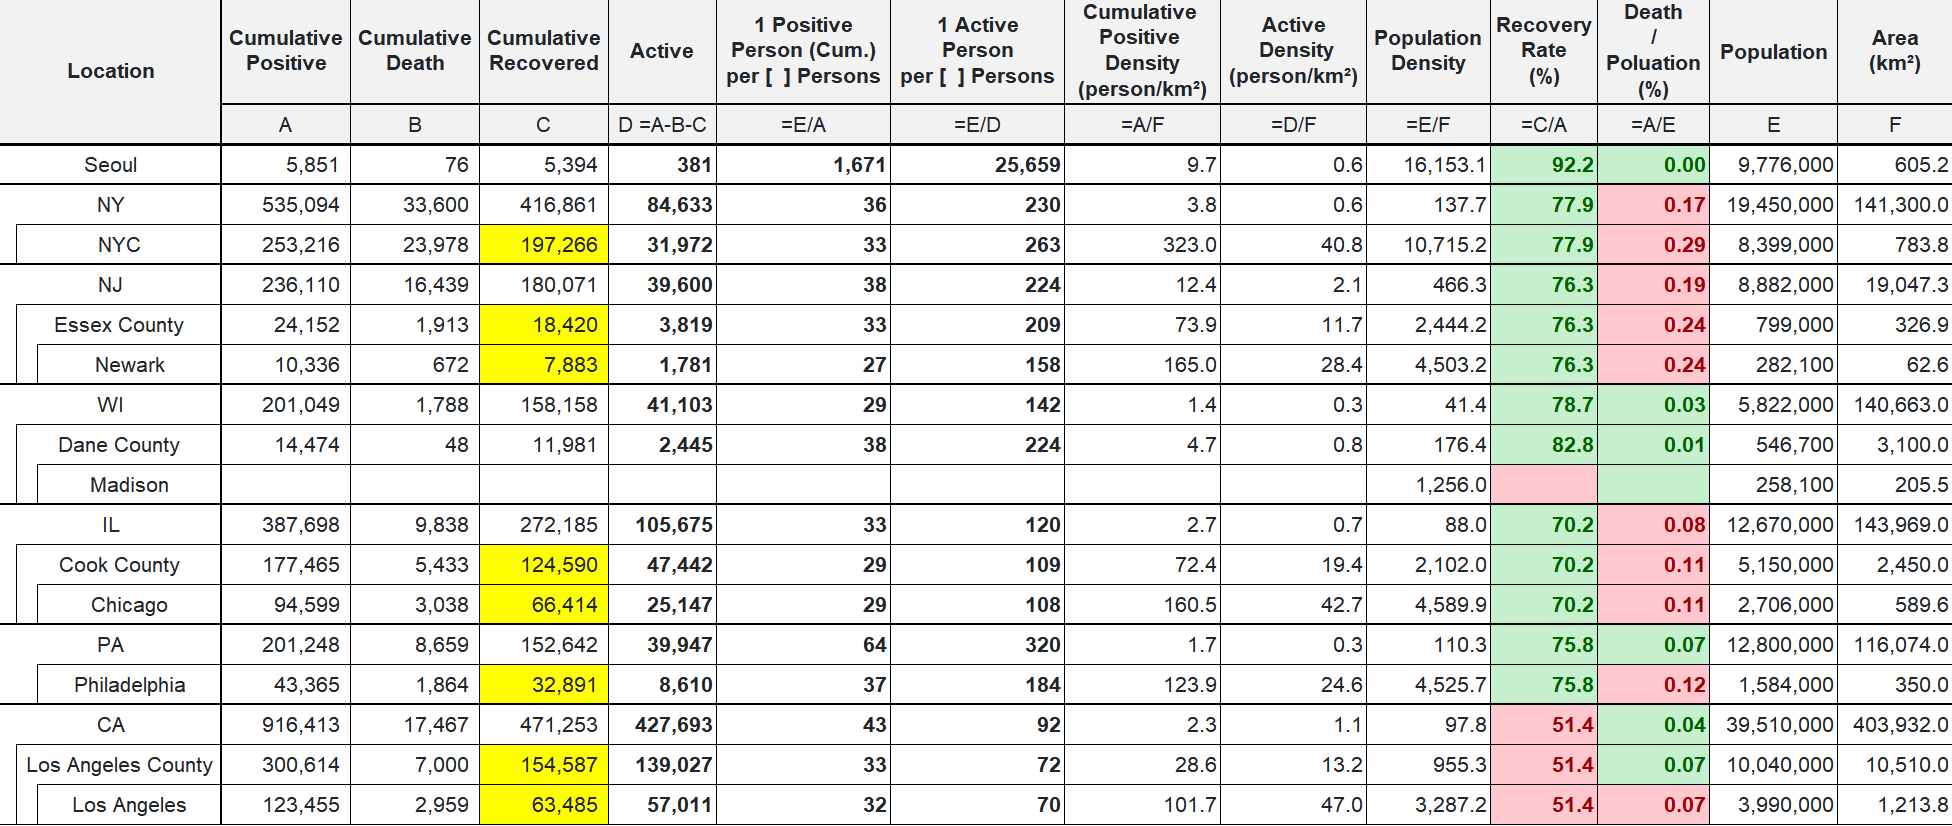
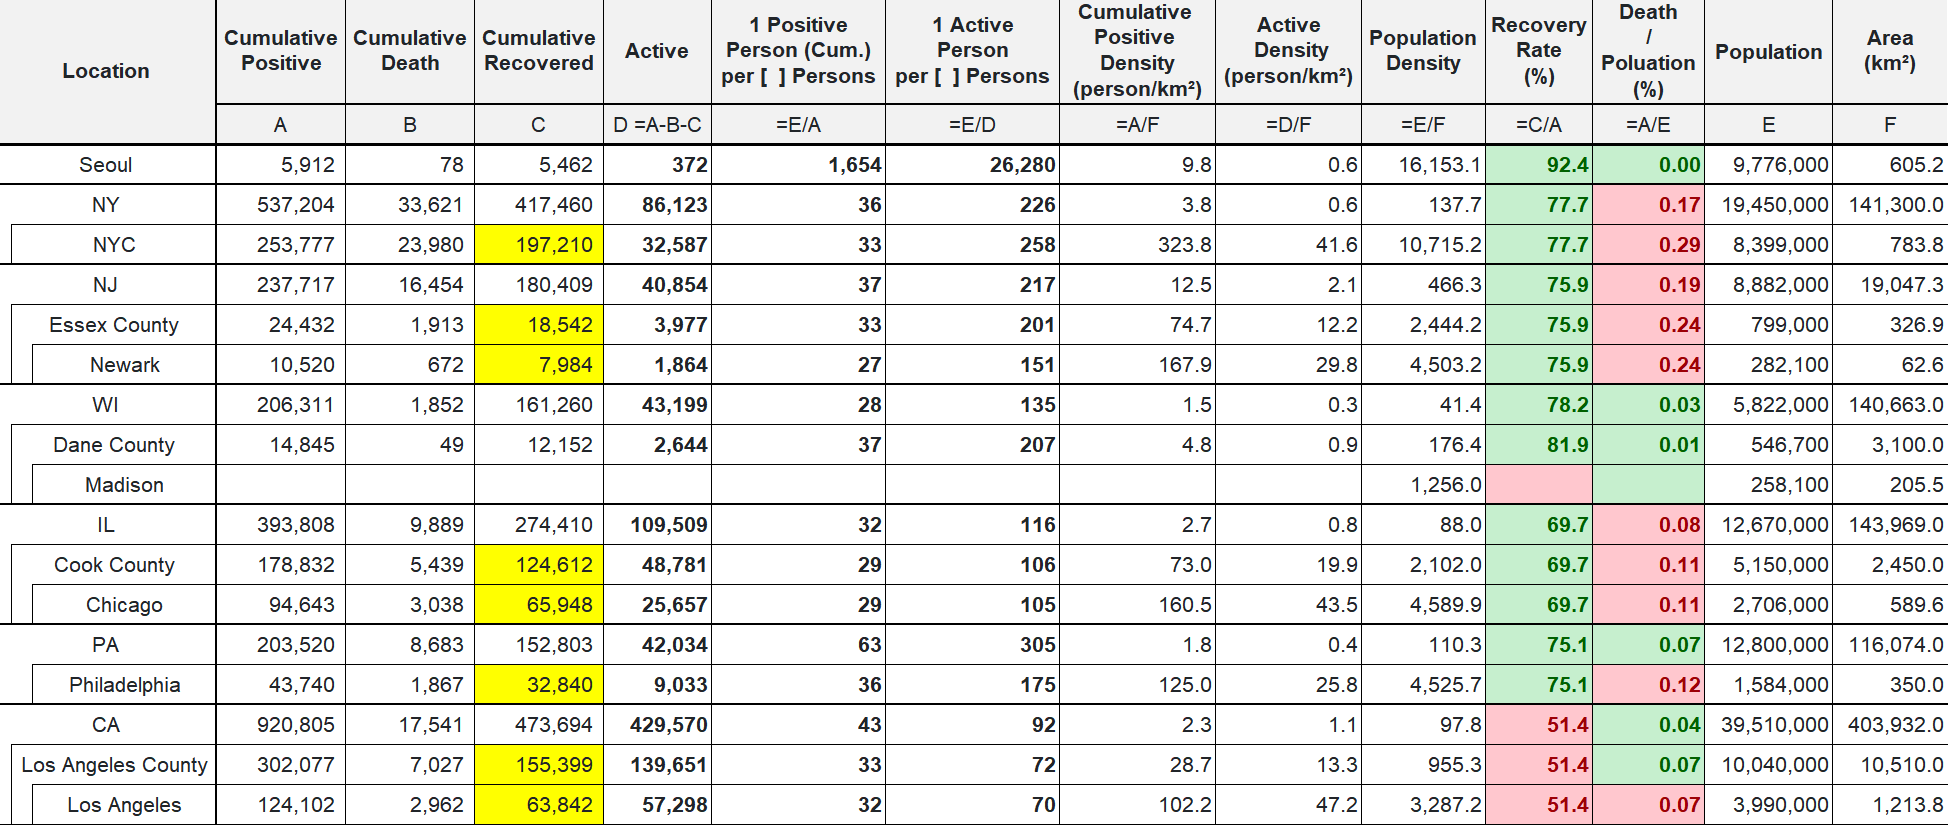
update 10/28 status

diff --git a/index.html b/index.html
@@ -19,7 +19,7 @@
 
 <body class="container-fluid">
 	<h1> CoronaV for Friends</h1>
-	<h2> Data updated at Oct 27 2020 EST 20:20</h2>
+	<h2> Data updated at Oct 28 2020 EST 23:15</h2>
 	<hr>
 	<main>
 		<div class="row">
